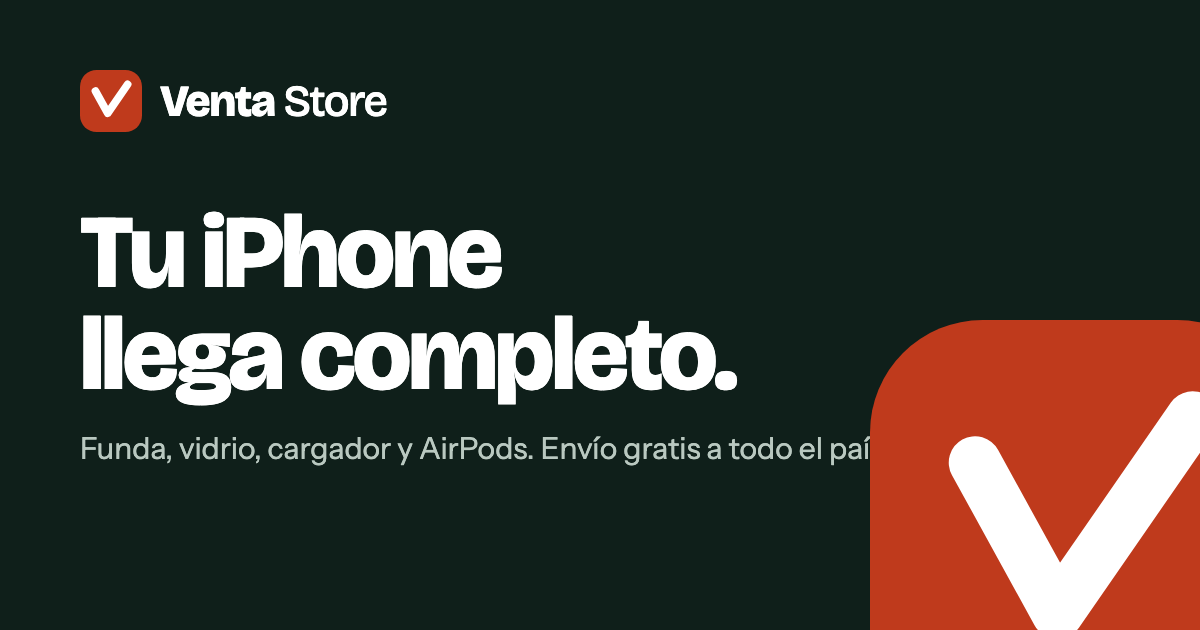
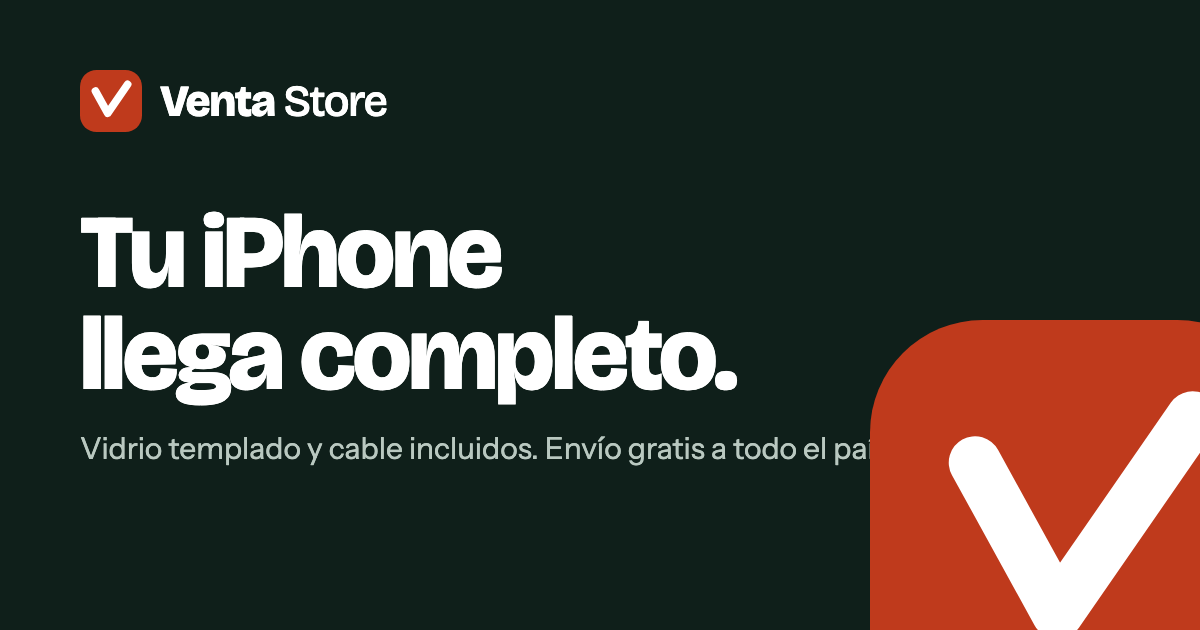
Vidrio y cable incluidos; sección Invertí en Venta Store con simulador
- Los iPhone llegan con vidrio templado y cable (texto, preguntas e imagen para compartir).
- Invertí en Venta Store: 6 % mensual en pesos (mínimo $3.000.000) y 3 % en
  dólares (mínimo USD 2.000), con simulador de monto, plazo y cobro mensual o
  reinversión, gráfico mes a mes y pedido por WhatsApp con lo elegido.
- Se quita la mención a Capitals; /invertir lleva a la sección nueva.
- Estilos y código versionados para que los cambios se vean al instante.

Changed region(s): [[0.0617, 0.6937, 0.74, 0.754]]

diff --git a/public/index.html b/public/index.html
@@ -4,7 +4,7 @@
 <meta charset="utf-8">
 <meta name="viewport" content="width=device-width, initial-scale=1, viewport-fit=cover">
 <title>iPhone en Posadas, con envío gratis a todo el país | Venta Store</title>
-<meta name="description" content="iPhone, iPad, MacBook, Apple Watch y consolas. Cada iPhone llega con funda, vidrio templado, cargador y AirPods. Envío gratis a todo el país y cuotas sin tarjeta en Posadas.">
+<meta name="description" content="iPhone, iPad, MacBook, Apple Watch y consolas. Cada iPhone llega con vidrio templado y cable. Envío gratis a todo el país y cuotas sin tarjeta en Posadas.">
 <meta name="theme-color" content="#0F1F1A">
 <link rel="canonical" href="https://ventastore.store/">
 <link rel="icon" href="/icono.svg" type="image/svg+xml">
@@ -13,13 +13,13 @@
 <meta property="og:locale" content="es_AR">
 <meta property="og:site_name" content="Venta Store">
 <meta property="og:title" content="Venta Store · Tu iPhone llega completo">
-<meta property="og:description" content="Funda, vidrio templado, cargador y AirPods incluidos. Envío gratis a todo el país.">
+<meta property="og:description" content="Vidrio templado y cable incluidos. Envío gratis a todo el país.">
 <meta property="og:url" content="https://ventastore.store/">
 <meta property="og:image" content="https://ventastore.store/compartir.png">
 <meta name="twitter:card" content="summary_large_image">
 <link rel="preconnect" href="https://fonts.googleapis.com"><link rel="preconnect" href="https://fonts.gstatic.com" crossorigin>
 <link rel="stylesheet" href="https://fonts.googleapis.com/css2?family=Bricolage+Grotesque:opsz,wght@12..96,500..800&family=Instrument+Sans:wght@400..700&display=swap">
-<link rel="stylesheet" href="/estilos.css">
+<link rel="stylesheet" href="/estilos.css?v=3">
 <script type="application/ld+json">
 {"@context":"https://schema.org","@type":"Store","name":"Venta Store","url":"https://ventastore.store/","logo":"https://ventastore.store/icono-180.png","image":"https://ventastore.store/compartir.png","telephone":"+54 9 3764 58-6667","email":"capital@ventastore.store","address":{"@type":"PostalAddress","addressLocality":"Posadas","addressRegion":"Misiones","addressCountry":"AR"},"openingHoursSpecification":[{"@type":"OpeningHoursSpecification","dayOfWeek":["Monday","Tuesday","Wednesday","Thursday","Friday","Saturday"],"opens":"09:00","closes":"18:00"}],"sameAs":["https://www.instagram.com/_ventastore_/"],"areaServed":"AR"}
 </script>
@@ -34,7 +34,7 @@
       <span><b>Venta</b> Store</span>
     </a>
     <nav class="menu" aria-label="Secciones">
-      <a href="#catalogo">Catálogo</a><a href="#como-comprar">Cómo comprar</a><a href="#cuotas">Cuotas</a><a href="#preguntas">Preguntas</a>
+      <a href="#catalogo">Catálogo</a><a href="#como-comprar">Cómo comprar</a><a href="#cuotas">Cuotas</a><a href="#invertir">Invertí</a><a href="#preguntas">Preguntas</a>
     </nav>
     <button class="btn-pedido" type="button" data-abrir-pedido aria-label="Ver mi pedido">
       <svg viewBox="0 0 24 24" aria-hidden="true"><path d="M6 7h12l-1.2 11.2a2 2 0 0 1-2 1.8H9.2a2 2 0 0 1-2-1.8L6 7Z"/><path d="M9 7V6a3 3 0 0 1 6 0v1"/></svg>
@@ -49,12 +49,12 @@
       <div>
         <p class="etiqueta clara">iPhone · iPad · MacBook · Apple Watch · consolas</p>
         <h1>Tu iPhone llega completo.</h1>
-        <p class="bajada">Funda, vidrio templado, cargador y AirPods incluidos. Envío gratis a todo el país y cuotas sin tarjeta en Posadas.</p>
+        <p class="bajada">Vidrio templado y cable incluidos. Envío gratis a todo el país y cuotas sin tarjeta en Posadas.</p>
         <div class="acciones"><a class="btn pri" href="#catalogo">Ver el catálogo</a><a class="btn sec" href="https://wa.me/5493764586667" target="_blank" rel="noopener">Escribinos</a></div>
         <p class="dolar" id="dolarPortada" hidden></p>
       </div>
       <ul class="pilares">
-        <li><b>Completo</b><span>Cada iPhone llega con funda, vidrio, cargador y AirPods.</span></li>
+        <li><b>Completo</b><span>Cada iPhone llega con vidrio templado y cable.</span></li>
         <li><b>Sin tarjeta</b><span>Cuotas propias en Posadas. También transferencia, efectivo, Mercado Pago y USDT.</span></li>
         <li><b>Cerca</b><span>Te atiende un asesor por WhatsApp, de lunes a sábado de 9 a 18.</span></li>
         <li><b>A todo el país</b><span>Envío gratis y equipos liberados para cualquier compañía.</span></li>
@@ -108,7 +108,7 @@
   <section class="preguntas" id="preguntas" aria-labelledby="tPreguntas">
     <div class="ancho angosto">
       <h2 id="tPreguntas">Preguntas frecuentes</h2>
-      <details><summary>¿Qué incluye la compra de un iPhone?</summary><p>Funda, vidrio templado, cargador y AirPods, sin costo extra. El precio publicado ya los incluye.</p></details>
+      <details><summary>¿Qué incluye la compra de un iPhone?</summary><p>Vidrio templado y cable, sin costo extra. El precio publicado ya los incluye.</p></details>
       <details><summary>¿Cómo pago?</summary><p>Transferencia, efectivo, Mercado Pago o USDT. En Posadas también podés pagar en cuotas sin tarjeta.</p></details>
       <details><summary>¿Cuánto tarda el envío?</summary><p>El envío es gratis a todo el país. A Capital Federal llega en 24 a 48 horas hábiles; al interior, en 3 a 5 días hábiles, con seguimiento.</p></details>
       <details><summary>¿Los equipos son liberados?</summary><p>Sí. Funcionan con cualquier compañía y con las redes 4G y 5G del país.</p></details>
@@ -117,10 +117,47 @@
     </div>
   </section>
 
-  <section class="capitals" id="capitals">
-    <div class="ancho capitals-fila">
-      <p><b>¿Buscás un préstamo?</b> VentaStore Capitals es nuestra marca de préstamos personales y microcréditos, con su propia cuenta.</p>
-      <a class="btn sec" href="https://www.instagram.com/ventastorecapitals/" target="_blank" rel="noopener">@ventastorecapitals</a>
+  <section class="invertir" id="invertir" aria-labelledby="tInvertir">
+    <div class="ancho">
+      <div class="inv-cab">
+        <p class="etiqueta clara">Inversiones</p>
+        <h2 id="tInvertir">Invertí en Venta Store</h2>
+        <p class="bajada">Tu capital financia la venta de equipos de tecnología en cuotas: iPhone, iPad, MacBook y más, a clientes de Posadas. Vos recibís un rendimiento mensual; nosotros evaluamos, cobramos y hacemos el seguimiento.</p>
+      </div>
+      <div class="tasas">
+        <div class="tasa"><span class="etiqueta clara">En pesos</span><b>6 %</b><span>mensual</span><small>Monto mínimo: $3.000.000</small></div>
+        <div class="tasa"><span class="etiqueta clara">En dólares</span><b>3 %</b><span>mensual</span><small>Monto mínimo: USD 2.000</small></div>
+
+      </div>
+      <div class="sim" id="simulador">
+        <div class="sim-controles">
+          <h3>Simulá tu inversión</h3>
+          <div class="campo-sim"><span>Moneda</span>
+            <div class="segmento" data-grupo="moneda"><button type="button" data-valor="ARS" aria-pressed="true">Pesos · 6 %</button><button type="button" data-valor="USD" aria-pressed="false">Dólares · 3 %</button></div></div>
+          <label class="campo-sim"><span>¿Cuánto querés invertir?</span><input id="simMonto" type="text" inputmode="numeric" autocomplete="off"></label>
+          <div class="rapidos" id="simRapidos"></div>
+          <div class="campo-sim"><span>Plazo</span>
+            <div class="segmento" data-grupo="plazo"><button type="button" data-valor="6" aria-pressed="false">6 meses</button><button type="button" data-valor="12" aria-pressed="true">12 meses</button><button type="button" data-valor="24" aria-pressed="false">24 meses</button></div></div>
+          <div class="campo-sim"><span>¿Qué hacés con la ganancia?</span>
+            <div class="segmento" data-grupo="modo"><button type="button" data-valor="cobro" aria-pressed="true">La cobro cada mes</button><button type="button" data-valor="reinvierto" aria-pressed="false">La reinvierto</button></div></div>
+        </div>
+        <div class="sim-resultado" aria-live="polite">
+          <div class="sim-cifras" id="simCifras"></div>
+          <div class="grafico" id="simGrafico" aria-hidden="true"></div>
+          <div class="grafico-ref"><span><i class="ref-cap"></i>Tu capital</span><span><i class="ref-gan"></i>Ganancia acumulada</span></div>
+          <p class="sim-error" id="simError" hidden></p>
+          <a class="btn pri" id="simWa" href="#" target="_blank" rel="noopener">Quiero invertir</a>
+        </div>
+      </div>
+      <ul class="respaldo">
+        <li><b>Contrato de mutuo y pagaré</b><span>Cada inversión se firma por escrito, con respaldo legal.</span></li>
+        <li><b>Clientes evaluados</b><span>Antes de financiar revisamos Equifax y la Central de Deudores del BCRA.</span></li>
+        <li><b>Riesgo repartido</b><span>El capital se reparte entre varios clientes, nunca en uno solo.</span></li>
+        <li><b>Cobranza al día</b><span>Seguimos cada cuota con nuestro sistema y, si alguien se atrasa, hacemos cobranza activa.</span></li>
+      </ul>
+      <div class="inv-pie">
+        <p class="aviso-legal">Acuerdo privado, sujeto a evaluación. No es una oferta pública de inversión. Los rendimientos son estimados y no están garantizados: dependen del cumplimiento de los pagos.</p>
+      </div>
     </div>
   </section>
 </main>
@@ -159,6 +196,6 @@
 </aside>
 <button class="barra-pedido" id="barraPedido" type="button" data-abrir-pedido hidden></button>
 
-<script src="/app.js" defer></script>
+<script src="/app.js?v=3" defer></script>
 </body>
 </html>

diff --git a/public/estilos.css b/public/estilos.css
@@ -124,7 +124,61 @@ summary::after { content: "+"; font: 700 22px/1 var(--titulo); color: var(--tier
 details[open] summary::after { content: "–"; }
 details p { padding: 0 20px 18px; color: var(--piedra); }
 
-/* VentaStore Capitals: una mención, no una portada */
+/* Invertí en Venta Store */
+.invertir { background: var(--selva); color: var(--blanco); padding: 60px 0; }
+.inv-cab h2 { margin-top: 10px; }
+.inv-cab .bajada { max-width: 46em; }
+.tasas { display: grid; grid-template-columns: 1fr 1fr; gap: 14px; margin-top: 30px; max-width: 640px; }
+.tasa, .simulador { background: var(--selva-2); border-radius: 20px; padding: 22px; display: flex; flex-direction: column; gap: 4px; }
+.tasa b { font-family: var(--titulo); font-weight: 800; font-size: 56px; line-height: 1; color: var(--blanco); margin-top: 8px; }
+.tasa > span:not(.etiqueta) { color: var(--claro-sobre-selva); font-weight: 600; }
+.tasa small { color: var(--claro-sobre-selva); margin-top: 10px; }
+.sim-fila-vieja { display: grid; grid-template-columns: 1.4fr 1fr; gap: 10px; margin-top: 8px; }
+.sim-fila label { display: grid; gap: 6px; font-size: 13px; font-weight: 700; color: var(--claro-sobre-selva); }
+.sim-fila input, .sim-fila select { font: 600 17px var(--texto); color: var(--selva); background: var(--blanco); border: 0; border-radius: 12px; min-height: 46px; padding: 0 12px; width: 100%; }
+.sim-res { margin-top: 12px; font-size: 18px; color: var(--blanco); }
+.sim-res b { font-family: var(--titulo); font-size: 26px; }
+.sim-res small { display: block; color: var(--claro-sobre-selva); font-size: 13px; margin-top: 4px; }
+.respaldo { list-style: none; padding: 0; margin: 14px 0 0; display: grid; grid-template-columns: repeat(4, 1fr); gap: 14px; }
+.respaldo li { border: 1px solid #2A4339; border-radius: 20px; padding: 18px; }
+.respaldo b { display: block; font-family: var(--titulo); font-size: 18px; }
+.respaldo span { display: block; color: var(--claro-sobre-selva); font-size: 14.5px; margin-top: 6px; }
+.inv-pie { display: flex; align-items: center; gap: 20px; flex-wrap: wrap; margin-top: 26px; }
+.aviso-legal { color: #8FA399; font-size: 13px; max-width: 52em; }
+.sim { display: grid; grid-template-columns: 1fr 1.25fr; gap: 14px; margin-top: 14px; }
+.sim-controles, .sim-resultado { background: var(--selva-2); border-radius: 20px; padding: 24px; display: flex; flex-direction: column; gap: 16px; }
+.sim-controles h3 { font-size: 24px; }
+.campo-sim { display: grid; gap: 8px; }
+.campo-sim > span { font-size: 13px; font-weight: 700; color: var(--claro-sobre-selva); }
+.campo-sim input { font: 700 22px var(--titulo); color: var(--selva); background: var(--blanco); border: 0; border-radius: 14px; min-height: 52px; padding: 0 16px; width: 100%; font-variant-numeric: tabular-nums; }
+.segmento { display: flex; background: var(--selva); border-radius: 14px; padding: 4px; gap: 4px; }
+.segmento button { flex: 1; min-height: 42px; border: 0; border-radius: 11px; background: transparent; color: var(--claro-sobre-selva); font: 600 14.5px var(--texto); cursor: pointer; padding: 0 8px; }
+.segmento button[aria-pressed="true"] { background: var(--blanco); color: var(--selva); }
+.rapidos { display: flex; gap: 8px; flex-wrap: wrap; margin-top: -6px; }
+.rapidos button { border: 1px solid #3B5248; background: transparent; color: var(--blanco); border-radius: 99px; min-height: 34px; padding: 0 12px; font: 600 13.5px var(--texto); cursor: pointer; }
+.rapidos button[aria-pressed="true"] { background: var(--tierra); border-color: var(--tierra); }
+.sim-cifras { display: grid; grid-template-columns: repeat(3, 1fr); gap: 10px; }
+.sim-cifras div { background: var(--selva); border-radius: 14px; padding: 14px; }
+.sim-cifras div.destacada { background: var(--tierra); }
+.sim-cifras span { display: block; font-size: 12.5px; font-weight: 700; color: var(--claro-sobre-selva); }
+.sim-cifras .destacada span { color: #FCE8E1; }
+.sim-cifras b { display: block; font-family: var(--titulo); font-weight: 800; font-size: 22px; margin-top: 6px; font-variant-numeric: tabular-nums; overflow-wrap: anywhere; }
+.grafico { height: 170px; display: flex; align-items: flex-end; gap: 4px; padding-bottom: 18px; border-bottom: 1px solid #2A4339; }
+.barra { flex: 1; height: 100%; display: flex; flex-direction: column; justify-content: flex-end; position: relative; }
+.barra i { display: block; width: 100%; }
+.barra .gan { background: var(--tierra); border-radius: 4px 4px 0 0; }
+.barra .cap { background: #3B5248; }
+.barra em { position: absolute; bottom: -18px; left: 50%; transform: translateX(-50%); font-style: normal; font-size: 11px; color: #8FA399; }
+.grafico-ref { display: flex; gap: 16px; font-size: 13px; color: var(--claro-sobre-selva); margin-top: -6px; }
+.grafico-ref i { display: inline-block; width: 10px; height: 10px; border-radius: 3px; margin-right: 6px; vertical-align: -1px; }
+.ref-cap { background: #3B5248; } .ref-gan { background: var(--tierra); }
+.sim-error { background: #3A1A12; color: #F6B4A0; border-radius: 12px; padding: 10px 12px; font-weight: 600; font-size: 14px; }
+.sim-resultado .btn { align-self: flex-start; }
+@media (max-width: 860px) { .sim { grid-template-columns: 1fr; } .respaldo { grid-template-columns: 1fr 1fr; } }
+@media (max-width: 520px) { .sim-cifras { grid-template-columns: 1fr; } .sim-cifras b { font-size: 24px; } .sim-resultado .btn { align-self: stretch; } .segmento button { font-size: 13px; } }
+@media (max-width: 520px) { .respaldo { grid-template-columns: 1fr; } .tasa b { font-size: 46px; } }
+
+/* (sin uso) mención anterior a Capitals */
 .capitals { padding: 0 0 56px; }
 .capitals-fila { background: var(--selva); color: var(--blanco); border-radius: 20px; padding: 22px 24px; display: flex; justify-content: space-between; align-items: center; gap: 16px; flex-wrap: wrap; }
 .capitals p { color: var(--claro-sobre-selva); max-width: 44em; }

diff --git a/public/app.js b/public/app.js
@@ -46,7 +46,7 @@ function tarjeta(p) {
     <div class="info">
       <h3>${esc(p.nombre)}</h3>
       ${p.detalle ? `<p class="detalle">${esc(p.detalle)}</p>` : ""}
-      ${p.conAccesorios ? '<p class="incluye">Llega con funda, vidrio, cargador y AirPods</p>' : ""}
+      ${p.conAccesorios ? '<p class="incluye">Llega con vidrio templado y cable</p>' : ""}
       <p class="precio">${usd(p.usd)}</p>
       ${datos.dolar > 0 ? `<p class="pesos">${pesos(p.usd * datos.dolar)} al dólar de hoy</p>` : ""}
       <p class="cuota-nota">o en cuotas sin tarjeta, en Posadas</p>
@@ -127,4 +127,45 @@ document.addEventListener("keydown", ev => { if (ev.key === "Escape" && $("#pedi
 $("#buscar").addEventListener("input", ev => { texto = ev.target.value; pintar(); });
 ["#pago", "#envio", "#nombre"].forEach(s => $(s).addEventListener("input", actualizarEnlace));
 $("#pago").addEventListener("change", actualizarEnlace);
+
+/* ---------- Simulador de inversión (6 % mensual en pesos, 3 % en dólares) ---------- */
+const TASA = { ARS: 0.06, USD: 0.03 }, MINIMO = { ARS: 3000000, USD: 2000 };
+const RAPIDOS = { ARS: [3000000, 5000000, 10000000, 20000000], USD: [2000, 5000, 10000, 20000] };
+const sim = { moneda: "ARS", plazo: 12, modo: "cobro", monto: 5000000 };
+const fmt = (n, m = sim.moneda) => (m === "ARS" ? pesos(n) : usd(n));
+const corto = (n, m = sim.moneda) => m === "ARS" ? (n >= 1e6 ? "$" + (n / 1e6).toLocaleString("es-AR", { maximumFractionDigits: 1 }) + " M" : pesos(n)) : usd(n);
+
+function simular() {
+  const { moneda: m, plazo: N, modo, monto } = sim, t = TASA[m];
+  document.querySelectorAll(".segmento").forEach(g => g.querySelectorAll("button").forEach(b => b.setAttribute("aria-pressed", String(String(sim[g.dataset.grupo]) === b.dataset.valor))));
+  $("#simRapidos").innerHTML = RAPIDOS[m].map(v => `<button type="button" data-rapido="${v}" aria-pressed="${v === monto}">${corto(v)}</button>`).join("");
+  const bajo = monto < MINIMO[m];
+  $("#simError").hidden = !bajo; $("#simError").textContent = bajo ? `El monto mínimo en ${m === "ARS" ? "pesos" : "dólares"} es ${fmt(MINIMO[m])}.` : "";
+  const base = Math.max(monto, 0);
+  // Mes a mes: capital y ganancia acumulada
+  const meses = Array.from({ length: N }, (_, k) => {
+    const g = modo === "cobro" ? base * t * (k + 1) : base * (Math.pow(1 + t, k + 1) - 1);
+    return { capital: base, ganancia: g };
+  });
+  const ganancia = meses[N - 1].ganancia, mensual = base * t;
+  const cifras = modo === "cobro"
+    ? [["Cobrás por mes", fmt(mensual)], [`Ganancia en ${N} meses`, fmt(ganancia)], ["Al final", `recuperás ${fmt(base)}`]]
+    : [["Ganancia el primer mes", fmt(mensual)], [`Ganancia en ${N} meses`, fmt(ganancia)], ["Terminás con", fmt(base + ganancia)]];
+  $("#simCifras").innerHTML = cifras.map(([e, v], i) => `<div class="${i === 1 ? "destacada" : ""}"><span>${e}</span><b>${v}</b></div>`).join("");
+  const tope = base + ganancia || 1;
+  $("#simGrafico").innerHTML = meses.map((x, k) => `<div class="barra" title="Mes ${k + 1}: ${fmt(x.capital + x.ganancia)}"><i class="gan" style="height:${(x.ganancia / tope) * 100}%"></i><i class="cap" style="height:${(x.capital / tope) * 100}%"></i>${(k + 1) % (N > 12 ? 6 : 3) === 0 ? `<em>${k + 1}</em>` : ""}</div>`).join("");
+  const texto = `Hola, quiero invertir en Venta Store.\nMonto: ${fmt(base)}\nPlazo: ${N} meses\n${modo === "cobro" ? "Quiero cobrar la ganancia cada mes" : "Quiero reinvertir la ganancia"}\nTasa: ${Math.round(t * 100)} % mensual en ${m === "ARS" ? "pesos" : "dólares"}`;
+  const wa = $("#simWa"); wa.textContent = bajo ? "Quiero invertir" : `Quiero invertir ${fmt(base)}`;
+  wa.href = `https://wa.me/${WHATSAPP}?text=${encodeURIComponent(texto)}`;
+}
+function ponerMonto(v) { sim.monto = v; $("#simMonto").value = v ? Number(v).toLocaleString("es-AR") : ""; simular(); }
+$("#simMonto").addEventListener("input", ev => { const d = ev.target.value.replace(/\D/g, "").slice(0, 12); sim.monto = Number(d) || 0; ev.target.value = d ? Number(d).toLocaleString("es-AR") : ""; simular(); });
+document.querySelector(".sim-controles").addEventListener("click", ev => {
+  const r = ev.target.closest("[data-rapido]"); if (r) return ponerMonto(Number(r.dataset.rapido));
+  const b = ev.target.closest(".segmento button"); if (!b) return;
+  const g = b.parentElement.dataset.grupo;
+  if (g === "moneda") { sim.moneda = b.dataset.valor; return ponerMonto(RAPIDOS[sim.moneda][1]); }
+  sim[g] = g === "plazo" ? Number(b.dataset.valor) : b.dataset.valor; simular();
+});
+ponerMonto(sim.monto);
 iniciar();

diff --git a/server.js b/server.js
@@ -112,10 +112,11 @@ const servidor = http.createServer(async (req, res) => {
     }
     // Direcciones del sitio anterior que pueden estar en Google o compartidas
     if (["/catalogo", "/catalog", "/productos"].includes(ruta)) { res.writeHead(301, { Location: "/#catalogo" }); return res.end(); }
-    if (ruta === "/invertir") { res.writeHead(301, { Location: "/#capitals" }); return res.end(); }
+    if (ruta === "/invertir") { res.writeHead(301, { Location: "/#invertir" }); return res.end(); }
     let archivo = path.normalize(path.join(PUB, ruta === "/" ? "index.html" : ruta));
     if (!archivo.startsWith(PUB) || !fs.existsSync(archivo) || fs.statSync(archivo).isDirectory()) archivo = path.join(PUB, "index.html");
-    const ext = path.extname(archivo), largo = ext === ".html" ? "no-cache" : "public, max-age=86400";
+    // HTML, estilos y código se revisan siempre (cambian con cada versión); imágenes, un día.
+    const ext = path.extname(archivo), largo = [".html", ".css", ".js"].includes(ext) ? "no-cache" : "public, max-age=86400";
     res.writeHead(200, { ...CABECERAS, "Content-Type": TIPOS[ext] || "application/octet-stream", "Cache-Control": largo });
     fs.createReadStream(archivo).pipe(res);
   } catch (e) { console.error(e); if (!res.headersSent) res.writeHead(500); res.end("Error"); }
